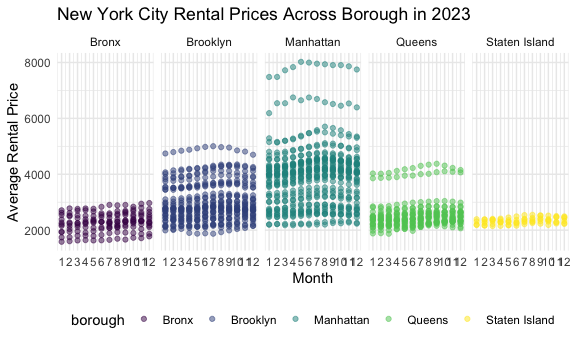
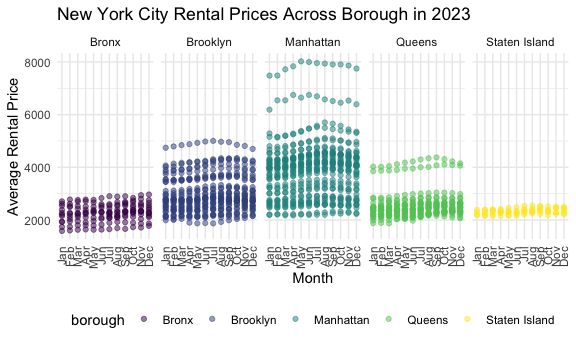
Problem 2 - plots

diff --git a/P8105_HW3_msp2210.md b/P8105_HW3_msp2210.md
@@ -324,7 +324,8 @@ increase their prices significantly due to losses.
 available years.**
 
 ``` r
-zillow_df %>%
+zipcodes_price_annual = 
+  zillow_df %>%
   group_by(zip_code, borough, year) %>%
   summarize(
     mean_rent = mean(rent, na.rm = TRUE)
@@ -346,6 +347,10 @@ zillow_df %>%
     ## `summarise()` has grouped output by 'zip_code', 'borough'. You can override
     ## using the `.groups` argument.
 
+``` r
+print(zipcodes_price_annual)
+```
+
     ## Warning: Removed 531 rows containing missing values or values outside the scale range
     ## (`geom_point()`).
 
@@ -355,25 +360,28 @@ This plot shows the distribution of average rental prices, for each
 zip-code from 2015-2024, divided by borough. This shows that there is a
 general upwards trend in zip code-level rental price from 2015-2024
 across each borough, with most significant increases in Manhattan,
-folowed by QUeens and then Brooklyn.
+folowed by Queens and then Brooklyn.
 
 **Compute the average rental price within each ZIP code over each month
 in 2023. Make a reader-friendly plot showing the distribution of
 ZIP-code-level rental prices across boroughs.**
 
 ``` r
-zillow_df %>%
+zipcodes_price_2023 = 
+  zillow_df %>%
   group_by(zip_code, borough, month) %>% 
   filter(year == 2023) %>%
+  mutate(
+    month = month.abb[(month)],
+    month = factor(month, levels = month.abb)
+  ) %>% 
   summarize(
     mean_rent_2023 = mean(rent, na.rm = TRUE)
   ) %>%
   ggplot(aes(x = month, y = mean_rent_2023, color = borough)) +
   geom_point(alpha = 0.5) +
   facet_grid (. ~ borough) +
-  scale_x_continuous(
-    breaks = seq(1, 12, by = 1)
-  ) +
+  theme(axis.text.x = element_text(angle = 90, hjust = 1, vjust = 0.5)) +
   labs(
     title = "New York City Rental Prices Across Borough in 2023",
     x = "Month",
@@ -383,6 +391,10 @@ zillow_df %>%
 
     ## `summarise()` has grouped output by 'zip_code', 'borough'. You can override
     ## using the `.groups` argument.
+
+``` r
+print(zipcodes_price_2023)
+```
 
     ## Warning: Removed 333 rows containing missing values or values outside the scale range
     ## (`geom_point()`).
@@ -394,3 +406,29 @@ zip-code from 2023, divided by borough. Here, the trend is relatively
 stable with no large significant increases or decreases at the zip-code
 level. Even in the year of 2023, Manhattan had some of the highest
 average rental prices when compared to the other boroughs.
+
+**Combine the two previous plots into a single graphic, and export this
+to a results folder in your repository.**
+
+``` r
+combined_plots = zipcodes_price_annual/zipcodes_price_2023
+
+print(combined_plots) 
+```
+
+    ## Warning: Removed 531 rows containing missing values or values outside the scale range
+    ## (`geom_point()`).
+
+    ## Warning: Removed 333 rows containing missing values or values outside the scale range
+    ## (`geom_point()`).
+
+<img src="P8105_HW3_msp2210_files/figure-gfm/unnamed-chunk-10-1.png" width="90%" />
+
+``` r
+ggsave("results/nyc_rent_comparisons.png", combined_plots, width = 12, height = 10, dpi = 300)
+```
+
+    ## Warning: Removed 531 rows containing missing values or values outside the scale range
+    ## (`geom_point()`).
+    ## Removed 333 rows containing missing values or values outside the scale range
+    ## (`geom_point()`).
